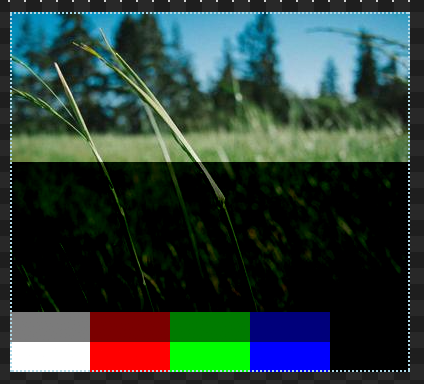
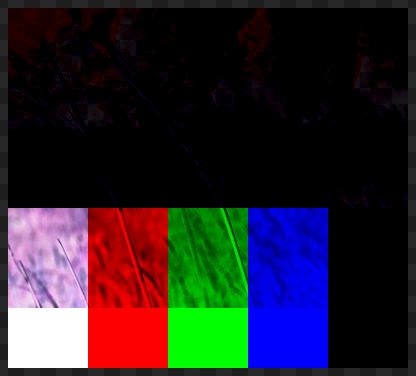
Subtract on a render-target container subtracts its premultiplied bake once (XNA, raylib); docs images use the page's photo-over-bars setup

diff --git a/Runtimes/RaylibGum/RenderingLibrary/Renderer.cs b/Runtimes/RaylibGum/RenderingLibrary/Renderer.cs
@@ -781,9 +781,14 @@ public class Renderer : IRenderer
         Color tint = new Color(alpha, alpha, alpha, alpha);
 
         BatchDrawCallCounter counter = BatchDrawCallCounter;
-        if (IsAdditiveComposite(cacheOwner))
+        Gum.RenderingLibrary.Blend? compositeBlend = GetCompositeBlend(cacheOwner);
+        if (compositeBlend == Gum.RenderingLibrary.Blend.Additive)
         {
             counter.BeginBlendModeAdditivePremultiplied();
+        }
+        else if (compositeBlend == Gum.RenderingLibrary.Blend.Subtract)
+        {
+            counter.BeginBlendModeSubtractPremultiplied();
         }
         else
         {
@@ -956,15 +961,14 @@ public class Renderer : IRenderer
         return source;
     }
 
-    // Whether the container's blend is Additive. The baked texture is premultiplied, so an additive
-    // composite must add the premultiplied color directly (see BeginBlendModeAdditivePremultiplied)
-    // rather than raylib's BlendMode.Additive, which would multiply by source alpha a second time and
-    // render the glow too dim. Non-additive blends composite premultiplied-over for v1.
-    private static bool IsAdditiveComposite(IRenderableIpso cacheOwner)
+    // The container's blend. The baked texture is premultiplied, so Additive and Subtract composite
+    // the premultiplied color directly (BeginBlendModeAdditivePremultiplied/SubtractPremultiplied)
+    // rather than weighting it by source alpha a second time. Other blends composite premultiplied-over.
+    private static Gum.RenderingLibrary.Blend? GetCompositeBlend(IRenderableIpso cacheOwner)
     {
         return cacheOwner is RenderableBase renderable
-            && Gum.RenderingLibrary.BlendExtensions.ToBlend(renderable.BlendState)
-                == Gum.RenderingLibrary.Blend.Additive;
+            ? Gum.RenderingLibrary.BlendExtensions.ToBlend(renderable.BlendState)
+            : null;
     }
 
     /// <summary>

diff --git a/Tests/MonoGameGum.IntegrationTests/MonoGameGum/Rendering/SubtractBlendTests.cs b/Tests/MonoGameGum.IntegrationTests/MonoGameGum/Rendering/SubtractBlendTests.cs
@@ -48,6 +48,30 @@ public class SubtractBlendTests : BaseTestClass
         AssertGray(pixel, expected);
     }
 
+    // The container composites its premultiplied bake, so its Subtract must not weight it by alpha again.
+    [Fact]
+    public void Subtract_OnRenderTargetContainer_WithTranslucentContent_SubtractsOnce()
+    {
+        using ShapeGameLease game = new ShapeGameLease();
+
+        ContainerRuntime root = new() { Width = CaptureSize, Height = CaptureSize };
+        ContainerRuntime container = new()
+        {
+            Width = CaptureSize, Height = CaptureSize, IsRenderTarget = true,
+            Blend = Gum.RenderingLibrary.Blend.Subtract,
+        };
+#pragma warning disable CS0618
+        root.AddChild(new ColoredRectangleRuntime { Width = CaptureSize, Height = CaptureSize, Color = XnaColor.White });
+        container.AddChild(new ColoredRectangleRuntime
+        {
+            Width = CaptureSize, Height = CaptureSize, Color = new XnaColor((byte)132, (byte)132, (byte)132, (byte)128),
+        });
+#pragma warning restore CS0618
+        root.AddChild(container);
+
+        AssertGray(Capture(game.GraphicsDevice, SystemManagers.Default, root), 189);
+    }
+
     private static void AssertGray(XnaColor pixel, int expected)
     {
         string message = $"was {pixel.R},{pixel.G},{pixel.B},{pixel.A}";
@@ -93,6 +117,11 @@ public class SubtractBlendTests : BaseTestClass
             });
         }
 #pragma warning restore CS0618
+        return Capture(gd, managers, root);
+    }
+
+    private static XnaColor Capture(GraphicsDevice gd, SystemManagers managers, ContainerRuntime root)
+    {
         root.AddToManagers(managers, null);
         root.UpdateLayout();
 

diff --git a/Tests/SkiaGum.Tests/Renderables/SubtractBlendTests.cs b/Tests/SkiaGum.Tests/Renderables/SubtractBlendTests.cs
@@ -38,6 +38,31 @@ public class SubtractBlendTests
         pixel.Alpha.ShouldBe((byte)255, message);
     }
 
+    // The container composites its premultiplied bake through the same blender, so it subtracts once.
+    [Fact]
+    public void Subtract_OnRenderTargetContainer_WithTranslucentContent_SubtractsOnce()
+    {
+        using SKSurface surface = SKSurface.Create(new SKImageInfo(32, 32));
+        Gum.GumService.Default.Initialize(surface.Canvas, 32, 32);
+
+        ContainerRuntime root = new() { Width = 32, Height = 32 };
+        root.Children.Add(NewFill(new SKColor(255, 255, 255), Blend.Normal));
+        ContainerRuntime container = new() { Width = 32, Height = 32, IsRenderTarget = true, Blend = Blend.Subtract };
+        container.Children.Add(NewFill(new SKColor(132, 132, 132, 128), Blend.Normal));
+        root.Children.Add(container);
+        Gum.GumService.Default.Root.Children.Add(root);
+        Gum.GumService.Default.Draw();
+        Gum.GumService.Default.Root.Children.Remove(root);
+
+        using SKImage image = surface.Snapshot();
+        using SKBitmap bitmap = SKBitmap.FromImage(image);
+        SKColor pixel = bitmap.GetPixel(16, 16);
+
+        string message = $"was {pixel.Red},{pixel.Green},{pixel.Blue},{pixel.Alpha}";
+        ((int)pixel.Red).ShouldBeInRange(188, 190, message);
+        pixel.Alpha.ShouldBe((byte)255, message);
+    }
+
     private static RectangleRuntime NewFill(SKColor color, Blend blend) => new()
     {
         Width = 32, Height = 32, IsFilled = true, StrokeWidth = 0, FillColor = color, Blend = blend,

diff --git a/Runtimes/RaylibGum/RenderingLibrary/BatchDrawCallCounter.cs b/Runtimes/RaylibGum/RenderingLibrary/BatchDrawCallCounter.cs
@@ -57,10 +57,12 @@ public sealed unsafe class BatchDrawCallCounter
 
     // GL blend factor / equation constants for the render-target premultiply pass. Kept here so
     // the raw-GL dependency stays contained to the one place that owns blend state.
+    private const int GlZero = 0;
     private const int GlOne = 1;
     private const int GlSrcAlpha = 0x0302;
     private const int GlOneMinusSrcAlpha = 0x0303;
     private const int GlFuncAdd = 0x8006;
+    private const int GlFuncReverseSubtract = 0x800B;
 
     // While true, the ambient blend mode is the render-target premultiply pass (not straight
     // BLEND_ALPHA). raylib's EndBlendMode always resets to BLEND_ALPHA and never restores the
@@ -248,6 +250,18 @@ public sealed unsafe class BatchDrawCallCounter
     {
         Bank();
         Rlgl.SetBlendFactorsSeparate(GlOne, GlOne, GlOne, GlOne, GlFuncAdd, GlFuncAdd);
+        NativeBeginBlendMode(BlendMode.CustomSeparate);
+        _straightAlphaBlendActive = false;
+    }
+
+    /// <summary>
+    /// Subtracts an already-premultiplied source color from the destination and keeps the destination
+    /// alpha: the composite of a baked render target whose container uses Subtract (#8263).
+    /// </summary>
+    public void BeginBlendModeSubtractPremultiplied()
+    {
+        Bank();
+        Rlgl.SetBlendFactorsSeparate(GlOne, GlOne, GlZero, GlOne, GlFuncReverseSubtract, GlFuncAdd);
         NativeBeginBlendMode(BlendMode.CustomSeparate);
         _straightAlphaBlendActive = false;
     }

diff --git a/Tests/RaylibGum.Tests/Rendering/SubtractBlendTests.cs b/Tests/RaylibGum.Tests/Rendering/SubtractBlendTests.cs
@@ -34,6 +34,31 @@ public class SubtractBlendTests : BaseTestClass
         pixel.A.ShouldBe((byte)255, message);
     }
 
+    // The container composites its premultiplied bake, so its Subtract must subtract that color once.
+    [Fact]
+    public void Subtract_OnRenderTargetContainer_WithTranslucentContent_SubtractsOnce()
+    {
+        PixelGrid pixels = RaylibPixelHarness.Render(Size, Size, new Color((byte)255, (byte)255, (byte)255, (byte)255), outer =>
+        {
+            ContainerRuntime container = new();
+            container.Width = Size;
+            container.Height = Size;
+            container.IsRenderTarget = true;
+            container.Blend = Blend.Subtract;
+            SpriteRuntime sprite = GraySprite(128);
+            sprite.Blend = Blend.Normal;
+            container.Children.Add(sprite);
+            outer.Children.Add(container);
+        });
+
+        Color pixel = pixels[Size / 2, Size / 2];
+        string message = $"was {pixel.R},{pixel.G},{pixel.B},{pixel.A}";
+        System.Math.Abs(pixel.R - 189).ShouldBeLessThanOrEqualTo(1, message);
+        System.Math.Abs(pixel.G - 189).ShouldBeLessThanOrEqualTo(1, message);
+        System.Math.Abs(pixel.B - 189).ShouldBeLessThanOrEqualTo(1, message);
+        pixel.A.ShouldBe((byte)255, message);
+    }
+
     [Theory]
     [InlineData(false)]
     [InlineData(true)]

diff --git a/RenderingLibrary/Graphics/Renderer.cs b/RenderingLibrary/Graphics/Renderer.cs
@@ -2227,6 +2227,12 @@ public class Renderer : IRenderer
             return BlendState.AdditivePremultiplied;
         }
 
+        // #8263: same reason as Additive; the premultiplied target is subtracted once.
+        if (blendState != null && !IsPremultipliedPipeline && IsFieldEquivalent(blendState, BlendState.Subtract))
+        {
+            return BlendState.SubtractPremultiplied;
+        }
+
         return null;
     }
 

diff --git a/.claude/skills/gum-docs-writing/SKILL.md b/.claude/skills/gum-docs-writing/SKILL.md
@@ -60,7 +60,7 @@ All images live in `docs/.gitbook/assets/`. Reference them using a depth-relativ
 
 Image filename convention: date-time prefix like `15_06 10 06.png` (day_hour minute second) or `08_14 21 31.gif`. Spaces in filenames require wrapping the path in `<>` angle brackets in standard Markdown image syntax: `![](<../../../.gitbook/assets/15_06 10 06.png>)`. In `<figure>` tags the `src` attribute handles spaces without angle brackets.
 
-**Take starting screenshots without being asked.** When a docs change describes something visible in the Gum tool or in a rendered result, take the screenshots yourself, cropped tight, named by the convention above, and wrapped in the same `<figure>` markup as neighboring pages. Pages under `docs/gum-tool/` use the editor: dark theme, only the canvas with its checker background, nothing selected unless the page is about the tool UI. Pages under `docs/code/` use a render of the running game or a sample, not the editor. The user reviews and replaces the images later, so skip red arrows and do not chase a perfect match.
+**Take starting screenshots without being asked.** When a docs change describes something visible in the Gum tool or in a rendered result, take the screenshots yourself, cropped tight, named by the convention above, and wrapped in the same `<figure>` markup as neighboring pages. Pages under `docs/gum-tool/` use the editor: dark theme, only the canvas with its checker background, nothing selected unless the page is about the tool UI. Pages under `docs/code/` use a render of the running game or a sample, not the editor. Skip red arrows. **A new image on a page that already has images copies their setup exactly**: open the existing images first, then use the same objects in the same roles (which object carries the property, which is the background), the same sizes, layout and background, and change only the value the new section is about. Never add an object the existing images don't have. Every editor screenshot has outlines off (the project's ShowOutlines and ShowCanvasOutline), nothing selected, and is cropped to the canvas so no rulers or tool chrome show. Before sending, put the new image next to an existing one from the page and check they look like one set.
 
 Some images use a generic `image (N).png` naming pattern with numeric suffixes like `image (13) (1).png` — these are GitBook-uploaded files; don't rename them.
 

diff --git a/docs/gum-tool/gum-elements/general-properties/blend.md b/docs/gum-tool/gum-elements/general-properties/blend.md
@@ -81,15 +81,15 @@ Changing the `Alpha` on a Sprite with `Replace` `Blend` does not affect how it i
 
 ## Subtract Blend
 
-`Subtract` `Blend` subtracts the color of an instance from whatever is below. Each channel drops by the same amount and stops at black, so dark colors clip to black first. It leaves alpha unchanged. `Subtract` can darken a whole scene with one rectangle, such as a retro HUD dimming the playfield behind a menu.
+`Subtract` `Blend` subtracts the color of an instance from whatever is below. Each channel drops by the instance's color and stops at black, so dark colors clip to black first. It leaves alpha unchanged. `Subtract` can darken a whole scene with one gray rectangle, such as a retro HUD dimming the playfield behind a menu.
 
-The following image shows a gray (132, 132, 132) Rectangle with `Subtract` `Blend` covering the lower half of the photo and the upper half of the color bars. White becomes gray, the colored bars darken, and black stays black.
+A `Subtract` `Blend` Sprite with an `Alpha` of `255` subtracts the photo from the color bars below it. Black stays black, and bright bars take on the inverse of the photo.
 
-<figure><img src="../../../.gitbook/assets/subtract-blend-alpha-255.png" alt=""><figcaption><p>Subtract Blend Rectangle with a Fill Alpha of 255</p></figcaption></figure>
+<figure><img src="../../../.gitbook/assets/subtract-blend-alpha-255.png" alt=""><figcaption><p>Subtract Blend Sprite with an Alpha of 255</p></figcaption></figure>
 
-As alpha is reduced, less color is subtracted. A Rectangle with a `Fill Alpha` of `128` subtracts roughly half as much.
+As `Alpha` is reduced, less color is subtracted. A Sprite with an `Alpha` of `128` subtracts roughly half as much.
 
-<figure><img src="../../../.gitbook/assets/subtract-blend-alpha-128.png" alt=""><figcaption><p>Subtract Blend Rectangle with a Fill Alpha of 128</p></figcaption></figure>
+<figure><img src="../../../.gitbook/assets/subtract-blend-alpha-128.png" alt=""><figcaption><p>Subtract Blend Sprite with an Alpha of 128</p></figcaption></figure>
 
 {% hint style="info" %}
 `Subtract` `Blend` is available in December 2026, or now if building Gum from source.
